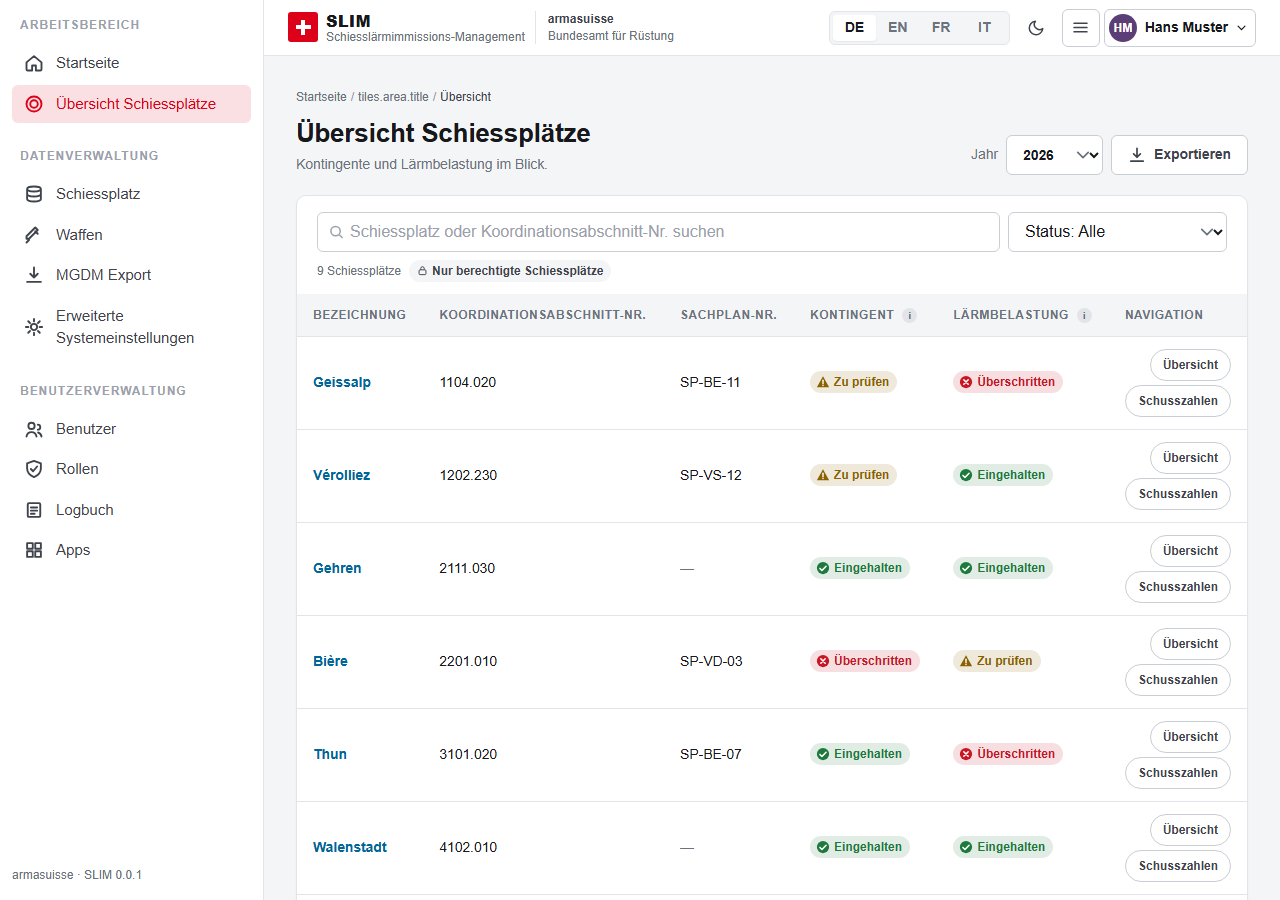
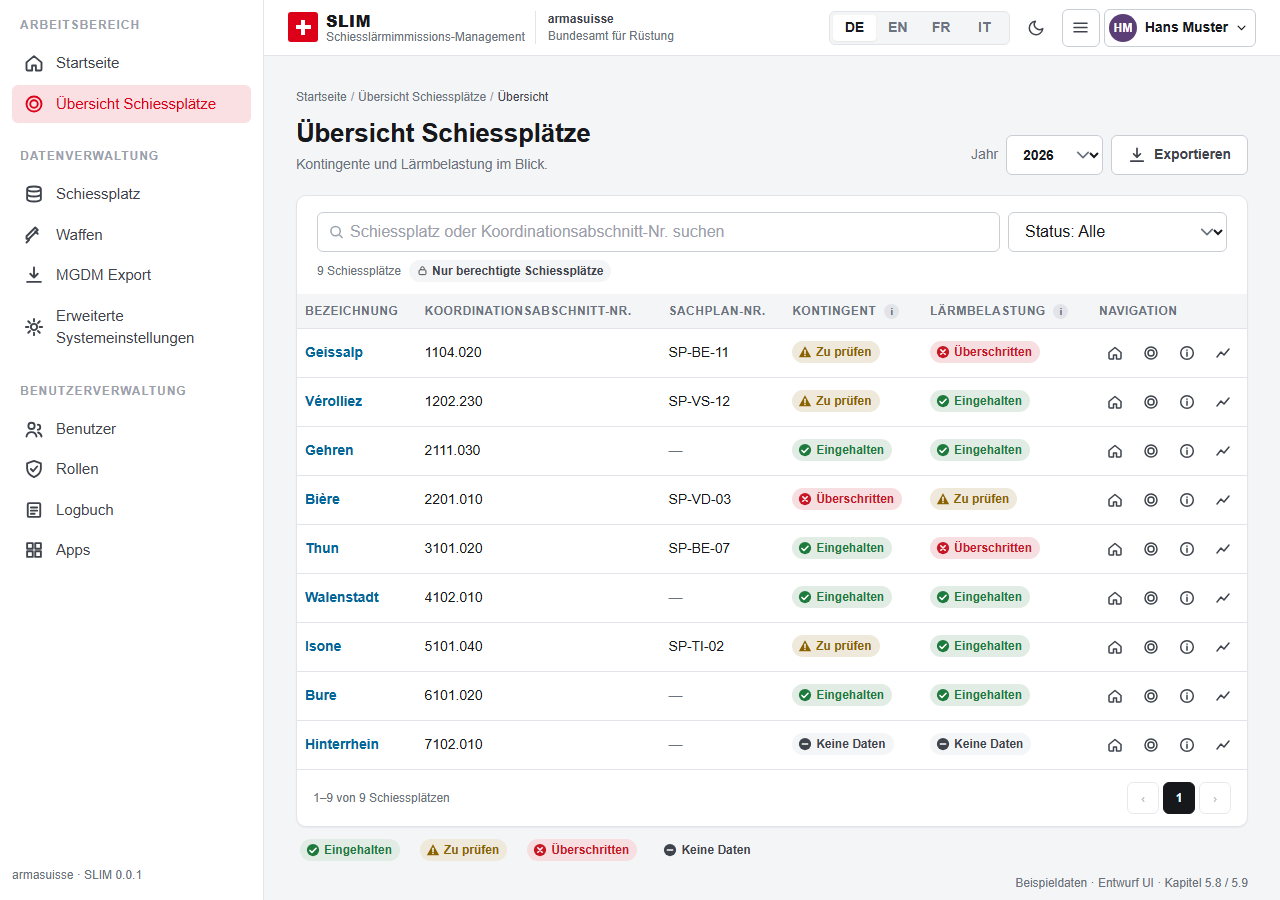
Add role "key" and "ownAreasOnly" settings with enhancements in API and frontend

diff --git a/apps/app/src/app/views/admin/area/area-overview.component.ts b/apps/app/src/app/views/admin/area/area-overview.component.ts
@@ -40,7 +40,7 @@ type StatusFilter = '' | 'attention' | AreaStatus;
         </li>
         <li class="slim-breadcrumbs__item">
           <a [routerLink]="routes.admin.area.root">{{
-            'tiles.area.title' | translate
+            'menu.areas' | translate
           }}</a>
         </li>
         <li class="slim-breadcrumbs__item slim-breadcrumbs__item--current">
@@ -162,7 +162,7 @@ type StatusFilter = '' | 'attention' | AreaStatus;
         </div>
 
         <div class="slim-table-wrap area__table-wrap">
-          <table class="slim-table slim-table--stack">
+          <table class="slim-table slim-table--stack slim-table--compact">
             <thead>
               <tr>
                 <th>{{ 'columns.name' | translate }}</th>
@@ -225,19 +225,21 @@ type StatusFilter = '' | 'attention' | AreaStatus;
                     [attr.data-label]="'columns.nav' | translate"
                     class="slim-table__cell--actions"
                   >
-                    <div class="slim-row-actions">
-                      <a
-                        class="slim-btn slim-btn--sm slim-btn--pill"
-                        [routerLink]="routes.admin.area.overview(r.id)"
-                        (click)="$event.stopPropagation()"
-                        >{{ 'actions.overview' | translate }}</a
-                      >
-                      <a
-                        class="slim-btn slim-btn--sm slim-btn--pill"
-                        [routerLink]="routes.admin.area.shots(r.id)"
-                        (click)="$event.stopPropagation()"
-                        >{{ 'actions.shots' | translate }}</a
-                      >
+                    <div class="slim-row-actions area__actions">
+                      @for (action of rowActions; track action.id) {
+                        <a
+                          class="slim-btn slim-btn--ghost slim-btn--icon slim-btn--sm"
+                          [routerLink]="action.link(r.id)"
+                          [attr.title]="action.key | translate"
+                          [attr.aria-label]="action.key | translate"
+                          [attr.data-testid]="'area-action-' + action.id"
+                          (click)="$event.stopPropagation()"
+                        >
+                          <svg class="slim-btn__icon" viewBox="0 0 16 16" fill="none" aria-hidden="true">
+                            <path [attr.d]="action.icon" stroke="currentColor" stroke-width="1.5" stroke-linecap="round" stroke-linejoin="round" />
+                          </svg>
+                        </a>
+                      }
                     </div>
                   </td>
                 </tr>
@@ -316,6 +318,14 @@ export class AreaOverviewComponent extends ComponentBase {
   protected readonly years = [2026, 2025, 2024];
   protected readonly legend: AreaStatus[] = ['ok', 'warn', 'over', 'none'];
 
+  /** Icon row actions (ELO collections look): the four pages of a Schiessplatz. */
+  protected readonly rowActions = [
+    { id: 'overview', key: 'actions.overview', link: APP_ROUTES.admin.area.overview, icon: ICON.home },
+    { id: 'shots', key: 'actions.shots', link: APP_ROUTES.admin.area.shots, icon: ICON.target },
+    { id: 'details', key: 'actions.details', link: APP_ROUTES.admin.area.details, icon: ICON.info },
+    { id: 'simulation', key: 'actions.simulation', link: APP_ROUTES.admin.area.simulation, icon: ICON.chart },
+  ];
+
   protected readonly year = signal(this.years[0]);
   protected readonly query = signal('');
 
@@ -357,3 +367,10 @@ export class AreaOverviewComponent extends ComponentBase {
     void this.area.load();
   }
 }
+
+const ICON = {
+  home: 'M2 7.5L8 2.5l6 5V13a1 1 0 01-1 1h-3.5v-4h-3v4H3a1 1 0 01-1-1V7.5z',
+  target: 'M8 2a6 6 0 100 12A6 6 0 008 2zm0 3a3 3 0 100 6 3 3 0 000-6z',
+  info: 'M8 1.7a6.3 6.3 0 100 12.6A6.3 6.3 0 008 1.7zM8 7.2v4M8 5v.2',
+  chart: 'M2 12l4-5 3 3 5-6',
+} as const;

diff --git a/apps/app-e2e/src/area-shots.spec.ts b/apps/app-e2e/src/area-shots.spec.ts
@@ -30,7 +30,7 @@ test.describe('area: shot counts', () => {
     // Overview → «Schusszahlen» of the first area (Geissalp).
     await page.goto(ROUTES.area);
     await expect(page.locator('.slim-table tbody tr').first()).toContainText('Geissalp');
-    await page.locator('.slim-table tbody tr').first().locator('.slim-row-actions a').nth(1).click();
+    await page.locator('.slim-table tbody tr').first().locator('[data-testid="area-action-shots"]').click();
     await expect(page).toHaveURL(/\/admin\/area\/[^/]+\/shots$/);
 
     // KPIs and the year's usages.

diff --git a/libs/app/design-system/src/styles/slim/components/_button.scss b/libs/app/design-system/src/styles/slim/components/_button.scss
@@ -146,6 +146,15 @@
       width: 20px;
       height: 20px;
     }
+    // Row action: 32px square, 16px glyph.
+    &.slim-btn--sm {
+      width: size('control-h-sm');
+      min-height: size('control-h-sm');
+      .slim-btn__icon {
+        width: 16px;
+        height: 16px;
+      }
+    }
   }
   @include mod('pill') {
     border-radius: radius('pill');

diff --git a/libs/app/design-system/src/styles/slim/components/_data.scss b/libs/app/design-system/src/styles/slim/components/_data.scss
@@ -156,6 +156,14 @@
   }
 
   // Card rows on phones: each <td> shows its `data-label` as a heading.
+  // Denser rows for long lists (ELO collections look).
+  @include mod('compact') {
+    th,
+    td {
+      padding: space(2) space(2);
+    }
+  }
+
   @include mod('stack') {
     @include mq-down('md') {
       thead {

diff --git a/apps/app/src/app/views/admin/area/area-overview.component.scss b/apps/app/src/app/views/admin/area/area-overview.component.scss
@@ -23,6 +23,11 @@
     color: slim.color('link');
   }
 
+  &__actions {
+    flex-wrap: nowrap;
+    white-space: nowrap;
+  }
+
   &__num {
     font-variant-numeric: tabular-nums;
   }
